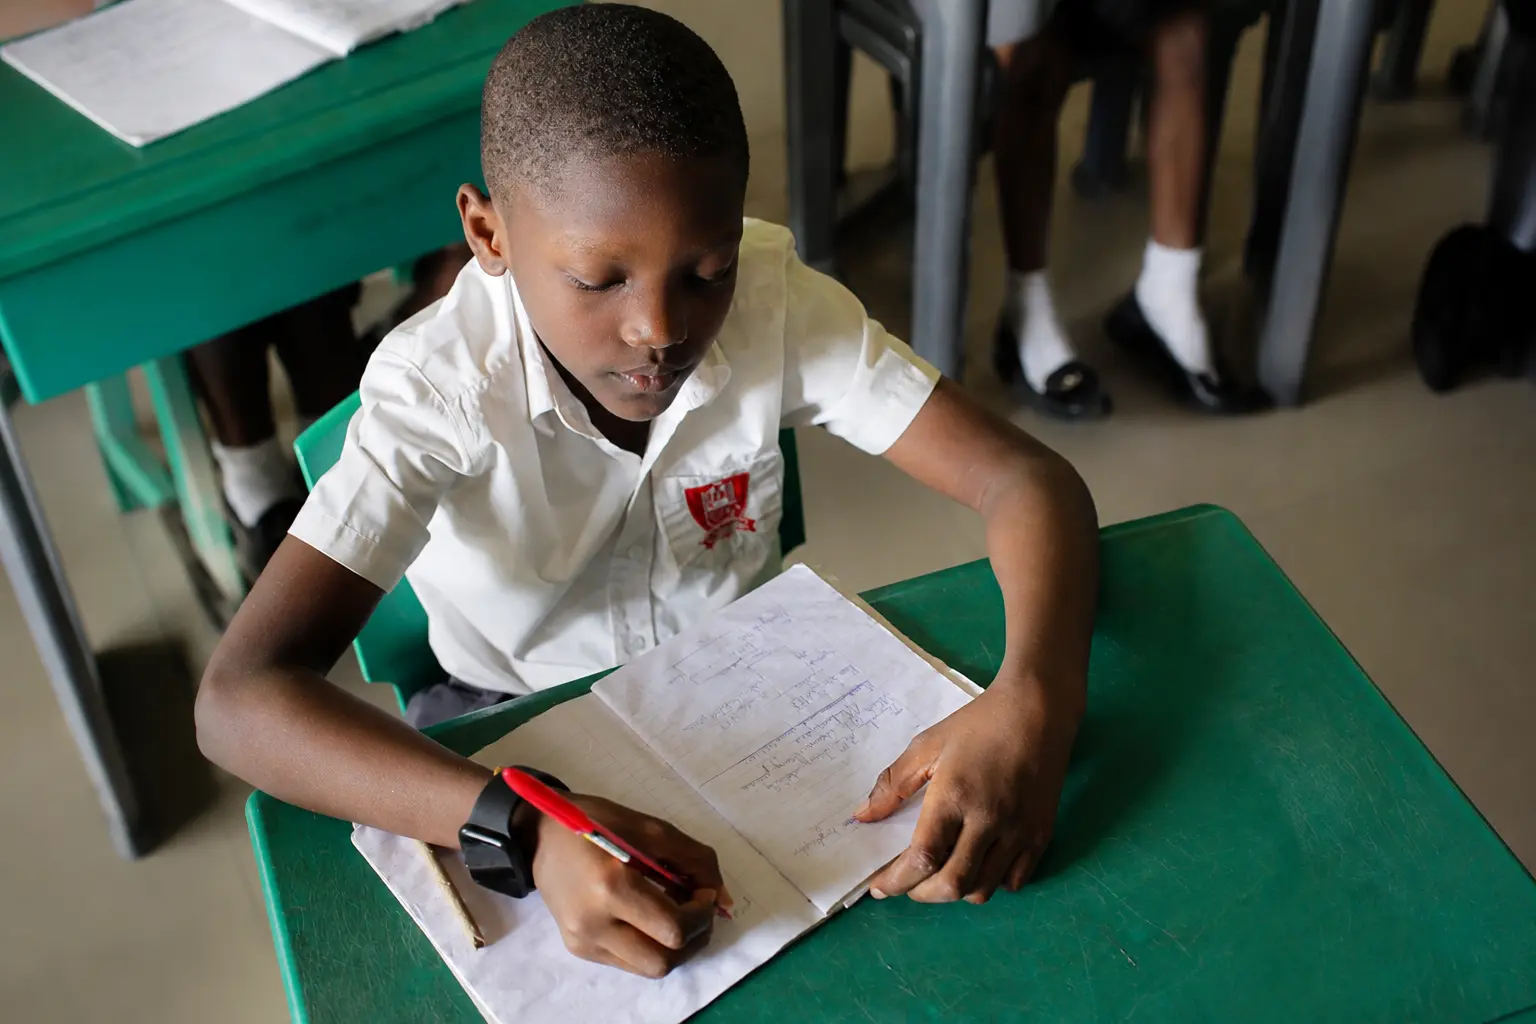
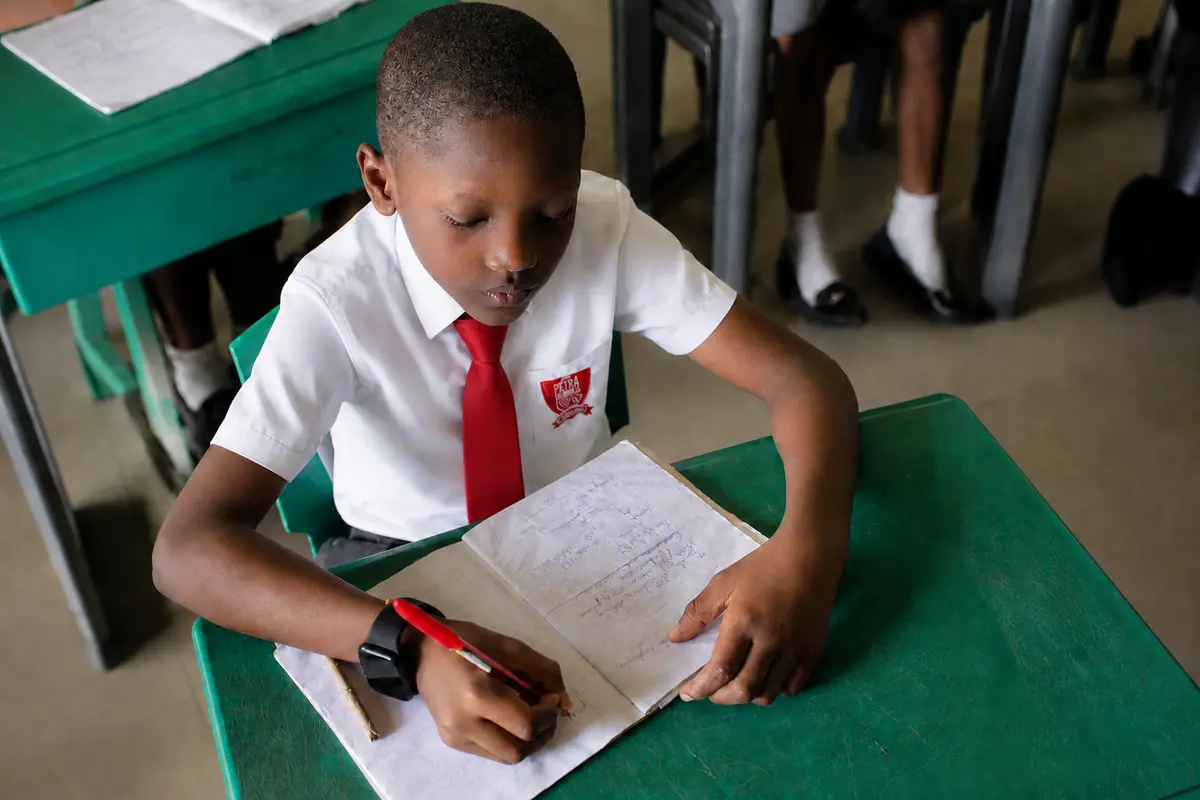
Carry approved website corrections into admissions preview

diff --git a/src/app/(marketing)/about/page.tsx b/src/app/(marketing)/about/page.tsx
@@ -285,12 +285,12 @@ export default function AboutPage() {
               />
             </div>
             <div className="px-6 py-5 text-center sm:px-8 sm:py-6">
-              <strong className="block font-[var(--font-merriweather)] text-2xl text-[#211f20]">The Petra teaching team</strong>
+              <strong className="block font-[var(--font-merriweather)] text-2xl text-[#211f20]">The Petra Nursery and Elementary teaching team</strong>
               <small className="mt-2 block font-semibold tracking-wide text-[#666b73]">Caring · Dedicated · Professional</small>
             </div>
           </div>
           <div>
-            <span className="section-kicker">Our Teachers</span>
+            <span className="section-kicker">Nursery &amp; Elementary Teachers</span>
             <h2 className="mt-3 font-[var(--font-merriweather)] text-[clamp(2.3rem,5vw,3.8rem)] leading-[1.08] tracking-[-0.035em]">Teachers who know, support and inspire every learner.</h2>
             <p className="mt-6 text-[1.05rem] leading-8 text-[#666b73]">
               Our teachers combine professional competence with patience, care and high expectations. They create warm,
